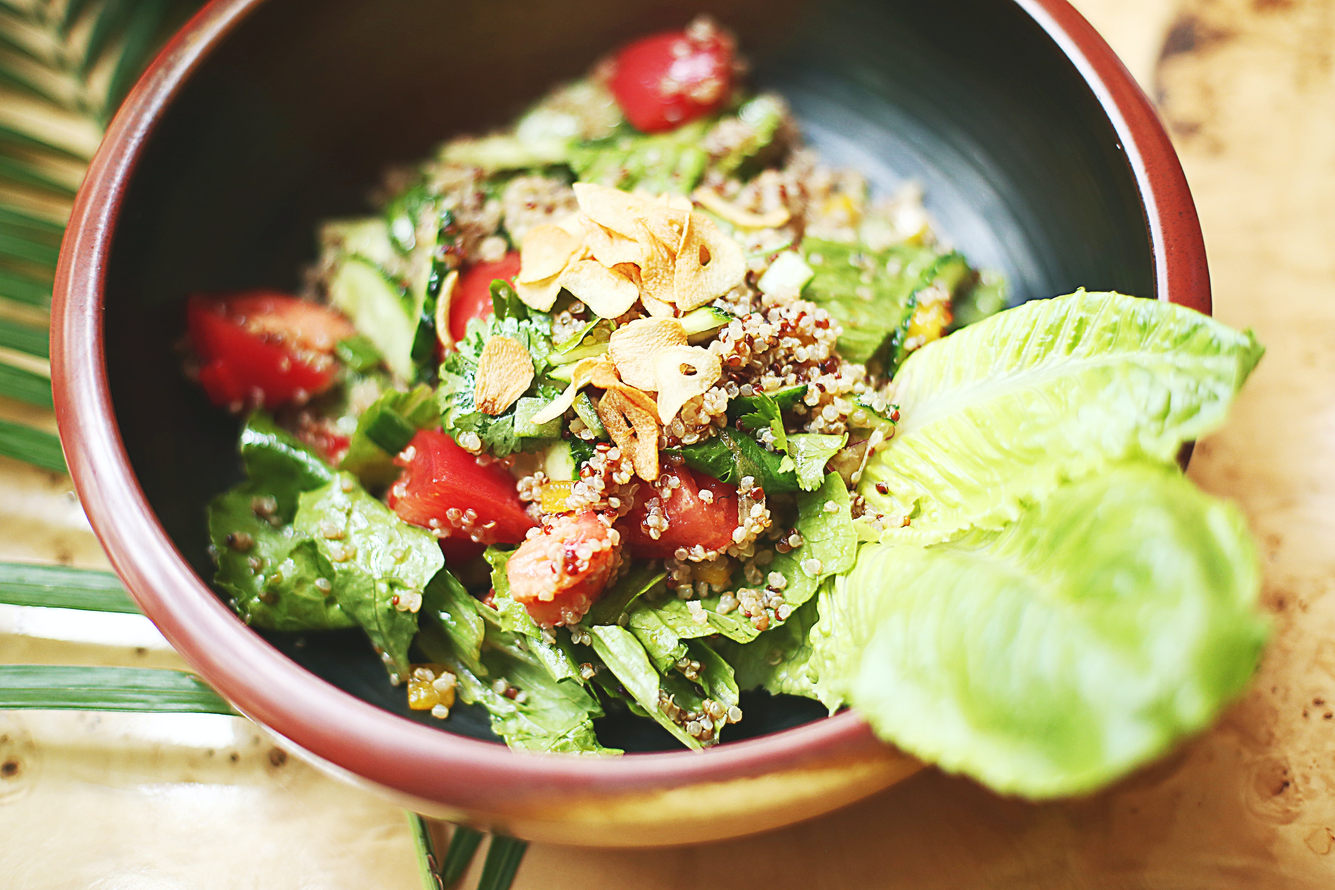
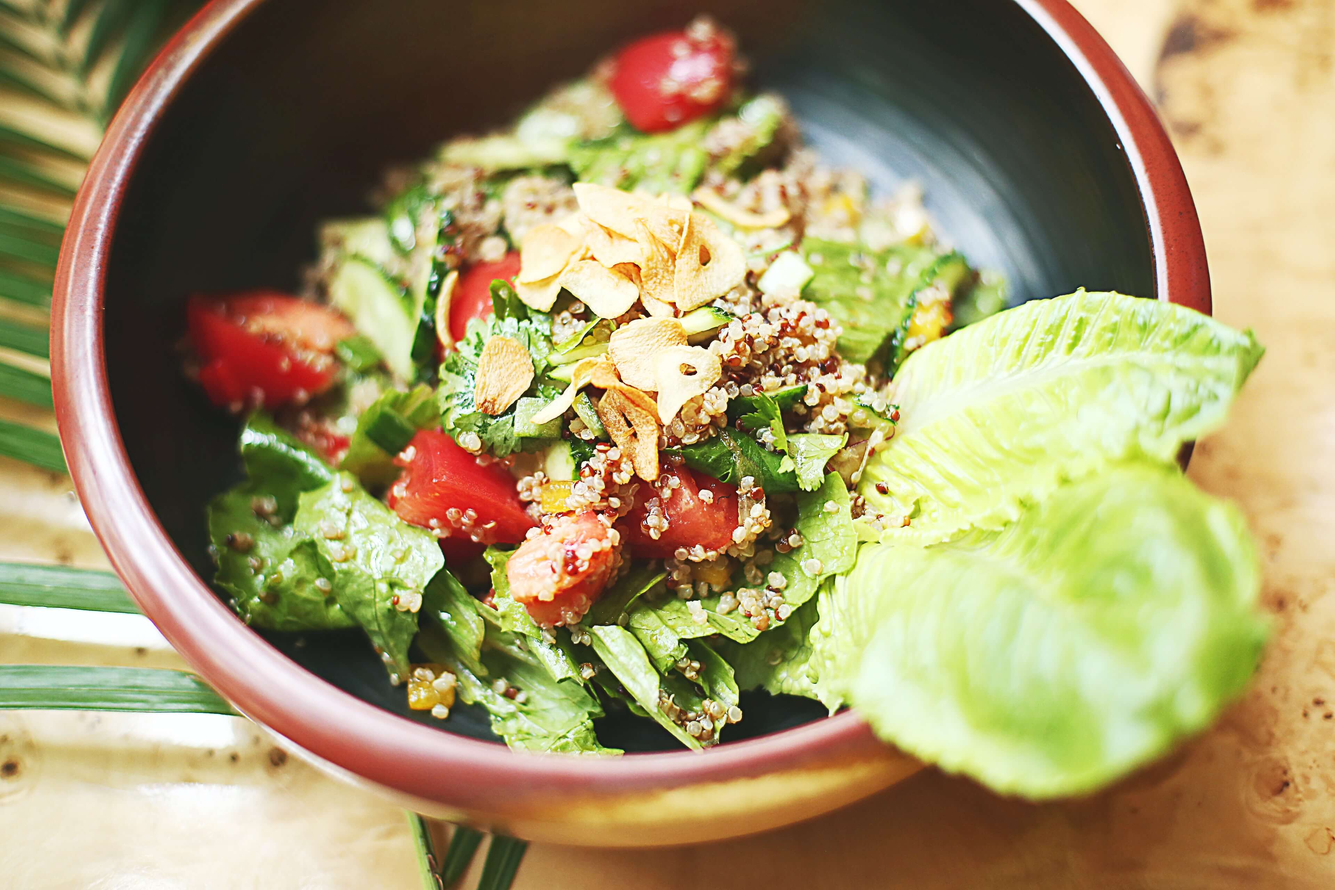
Beautified code in add_category.html and add_recipe.html and compressed images for image slider in index.html

diff --git a/templates/add_recipe.html b/templates/add_recipe.html
@@ -17,7 +17,7 @@
                         <option value="" disabled selected>Choose Category</option>
                         {% for category in categories %}
                         <option value="{{ category.category_name }}">{{ category.category_name|capitalize }}
-                        {% endfor %}
+                            {% endfor %}
                     </select>
                     <label for="category_name">Recipe Category</label>
                 </div>
@@ -26,8 +26,8 @@
             <div class="row">
                 <div class="input-field col s12">
                     <i class="fas fa-pencil-alt prefix light-blue-text text-darken-4"></i>
-                    <input id="recipe_title" name="recipe_title" minlength="5" maxlength="50"
-                        type="text" class="validate" required>
+                    <input id="recipe_title" name="recipe_title" minlength="5" maxlength="50" type="text"
+                        class="validate" required>
                     <label for="recipe_title">Recipe Title</label>
                 </div>
             </div>
@@ -35,7 +35,7 @@
             <div class="row">
                 <div class="input-field col s12">
                     <i class="fas fa-align-left prefix light-blue-text text-darken-4"></i>
-                    <textarea id="recipe_description" name="recipe_description" minlength="10" 
+                    <textarea id="recipe_description" name="recipe_description" minlength="10"
                         class="materialize-textarea validate" required></textarea>
                     <label for="recipe_description">Recipe Description</label>
                 </div>
@@ -44,16 +44,16 @@
             <div class="row">
                 <div class="input-field col s12">
                     <i class="fas fa-link prefix light-blue-text text-darken-4"></i>
-                    <textarea id="image_url" name="image_url" minlength="10" 
-                        class="materialize-textarea validate" required></textarea>
-                    <label for="image_url">Recipe Image link ( example: https://images.unsplash.com/photo-1476718406336 ) </label>
+                    <textarea id="image_url" name="image_url" minlength="10" class="materialize-textarea validate"
+                        required></textarea>
+                    <label for="image_url">Recipe Image link ( example: https://images.unsplash.com/photo-1476718406336
+                        ) </label>
                 </div>
             </div>
             <!-- servings options -->
             <div class="row">
                 <div class="col s12 m4">
-                    <select class="transparent" name="serves" 
-                        aria-label="select servings" required>
+                    <select class="transparent" name="serves" aria-label="select servings" required>
                         <option value="" disabled selected>Serves</option>
                         <option value="1">1</option>
                         <option value="2">2</option>
@@ -69,26 +69,26 @@
                 <div class="col s12 m4">
                     <select class="transparent" aria-label="prep time" name="prep_time" required>
                         <option value="" disabled selected>Prep Time</option>
-                            {% for n in range(5,185,5) %}
-                            <option value="{{ n }}">{{ n }} mins</option>
-                            {% endfor %} 
+                        {% for n in range(5,185,5) %}
+                        <option value="{{ n }}">{{ n }} mins</option>
+                        {% endfor %}
                     </select>
                 </div>
                 <!-- Cooking Time -->
                 <div class="col s12 m4">
                     <select class="transparent" aria-label="cook time" name="cook_time" required>
                         <option value="" disabled selected>Cook Time</option>
-                            {% for n in range(0,185,5) %}
-                            <option value="{{ n }}">{{ n }} mins</option>
-                            {% endfor %} 
+                        {% for n in range(0,185,5) %}
+                        <option value="{{ n }}">{{ n }} mins</option>
+                        {% endfor %}
                     </select>
-                </div>                
+                </div>
             </div>
             <!-- Calories Input -->
             <div class="row">
                 <div class="input-field col s12">
                     <i class="fas fa-fire-alt prefix light-blue-text text-darken-4"></i>
-                    <input id="kcal" name="kcal" type="text" required>                        
+                    <input id="kcal" name="kcal" type="text" required>
                     <label for="kcal">Calories Per Serving</label>
                 </div>
             </div>
@@ -96,7 +96,8 @@
             <h6 class="ingredient">Ingredients</h6>
             <div class="row ing-list">
                 <div class="input-field col s12 ingre-input">
-                    <input id="ingredients" name="ingredients" type="text" placeholder="ingredient" aria-label="ingredient input" required>                        
+                    <input id="ingredients" name="ingredients" type="text" placeholder="ingredient"
+                        aria-label="ingredient input" required>
                 </div>
             </div>
             <div class="col s12">
@@ -108,7 +109,8 @@
             <h6 class="m-list">Method</h6>
             <div class="row method-list">
                 <div class="input-field col s12 method-input">
-                    <input id="method" name="method" type="text" placeholder="Add Method Steps" aria-label="method input" required>                        
+                    <input id="method" name="method" type="text" placeholder="Add Method Steps"
+                        aria-label="method input" required>
                 </div>
             </div>
             <div class="col s12">
@@ -128,4 +130,4 @@
     </div>
 </div>
 
-{% endblock %}  
+{% endblock %}

diff --git a/templates/add_category.html b/templates/add_category.html
@@ -1,38 +1,36 @@
-  
-{% extends "base.html" %}
-{% block content %}
+  {% extends "base.html" %}
+  {% block content %}
 
-<h3 class="center-align">Add Category</h3>
-<div class="container">
-    <div class="row card-panel">
-        <form class="col s12" method="POST" action="{{ url_for('add_category') }}">
-            <!-- category name -->
-            <div class="row">
-                <div class="input-field col s12">
-                    <i class="fas fa-folder-open prefix text-darken-4"></i>
-                    <input id="category_name" name="category_name" minlength="3" maxlength="20"
-                        type="text" class="validate" required>
-                    <label for="category_name">Category Name</label>
-                </div>
-            </div>
-            <div class="row">
-                <div class="input-field col s12">
-                    <i class="fas fa-folder-open prefix text-darken-4"></i>
-                    <input id="image" name="image" minlength="3"
-                        type="text" class="validate" required>
-                    <label for="image">Image URL</label>
-                </div>
-            </div>
-            <!-- submit button -->
-            <div class="row">
-                <div class="col s12 center-align">
-                    <button type="submit" class="btn darken-1 text-shadow center-align">
-                        Add Category <i class="fas fa-plus-square right"></i>
-                    </button>
-                </div>
-            </div>
-        </form>
-    </div>
-</div>
+  <h3 class="center-align">Add Category</h3>
+  <div class="container">
+      <div class="row card-panel">
+          <form class="col s12" method="POST" action="{{ url_for('add_category') }}">
+              <!-- category name -->
+              <div class="row">
+                  <div class="input-field col s12">
+                      <i class="fas fa-folder-open prefix text-darken-4"></i>
+                      <input id="category_name" name="category_name" minlength="3" maxlength="20" type="text"
+                          class="validate" required>
+                      <label for="category_name">Category Name</label>
+                  </div>
+              </div>
+              <div class="row">
+                  <div class="input-field col s12">
+                      <i class="fas fa-folder-open prefix text-darken-4"></i>
+                      <input id="image" name="image" minlength="3" type="text" class="validate" required>
+                      <label for="image">Image URL</label>
+                  </div>
+              </div>
+              <!-- submit button -->
+              <div class="row">
+                  <div class="col s12 center-align">
+                      <button type="submit" class="btn darken-1 text-shadow center-align">
+                          Add Category <i class="fas fa-plus-square right"></i>
+                      </button>
+                  </div>
+              </div>
+          </form>
+      </div>
+  </div>
 
-{% endblock %}  
+  {% endblock %}

diff --git a/templates/index.html b/templates/index.html
@@ -5,7 +5,7 @@
 <div class="slider">
     <ul class="slides">
       <li>
-        <img src="./static/images/index-hero.jpg" alt="Vegetables arranged in circle pattern"> <!-- random image -->
+        <img src="./static/images/vegetables.jpg" alt="Vegetables arranged in circle pattern"> <!-- random image -->
         <div class="caption center-align">
           <h3>Eat Well, Eat Healthy</h3>
           
@@ -19,7 +19,7 @@
         </div>
       </li>
       <li>
-        <img src="./static/images/recipe.jpg" alt="Person mixing ingredients in a bowl"> <!-- random image -->
+        <img src="./static/images/cooking.jpg" alt="Person mixing ingredients in a bowl"> <!-- random image -->
         <div class="caption right-align">
           <h3>Gorgeous Recipes</h3>
           
